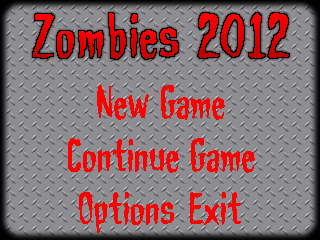
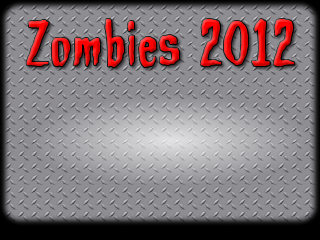
actualizo menu principal, y fpg del sistema se actualiza la carpeta source fpg, hace falta regenerar fpgs para ver los cambios.

diff --git a/CHANGELOG.md b/CHANGELOG.md
@@ -13,6 +13,7 @@
 - disparos salen del arma
 - se agrega scroll de texto (basico)
 - se agrega menu (y sistema) de opciones
+- restyling de menu: textos y fondos
 
 ## Releases
 
